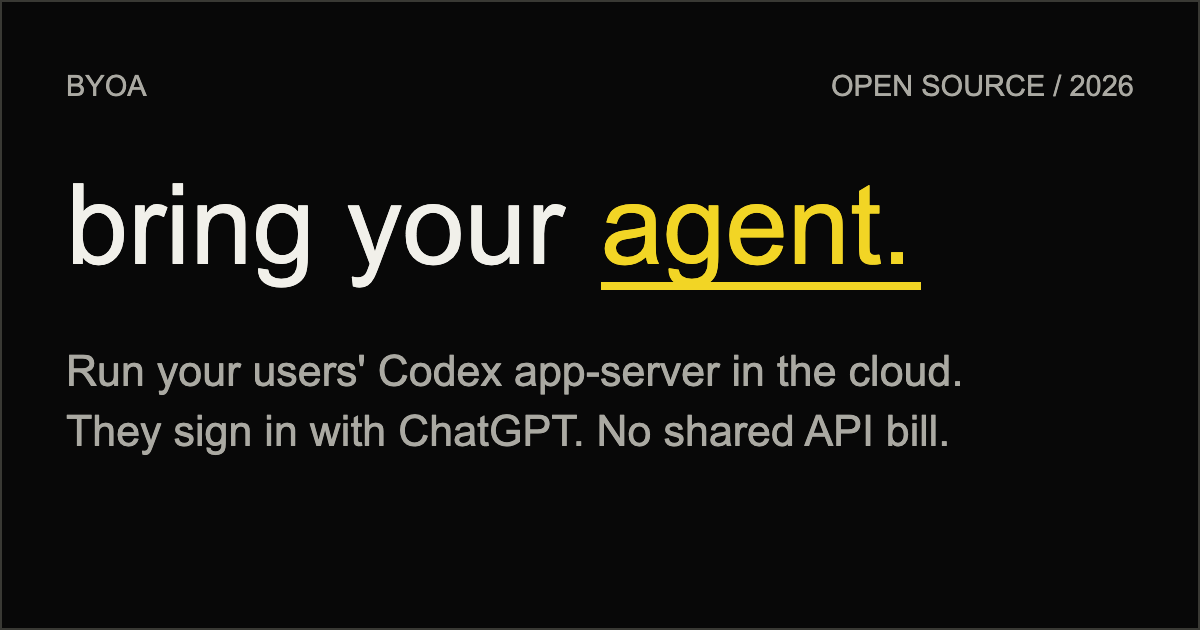
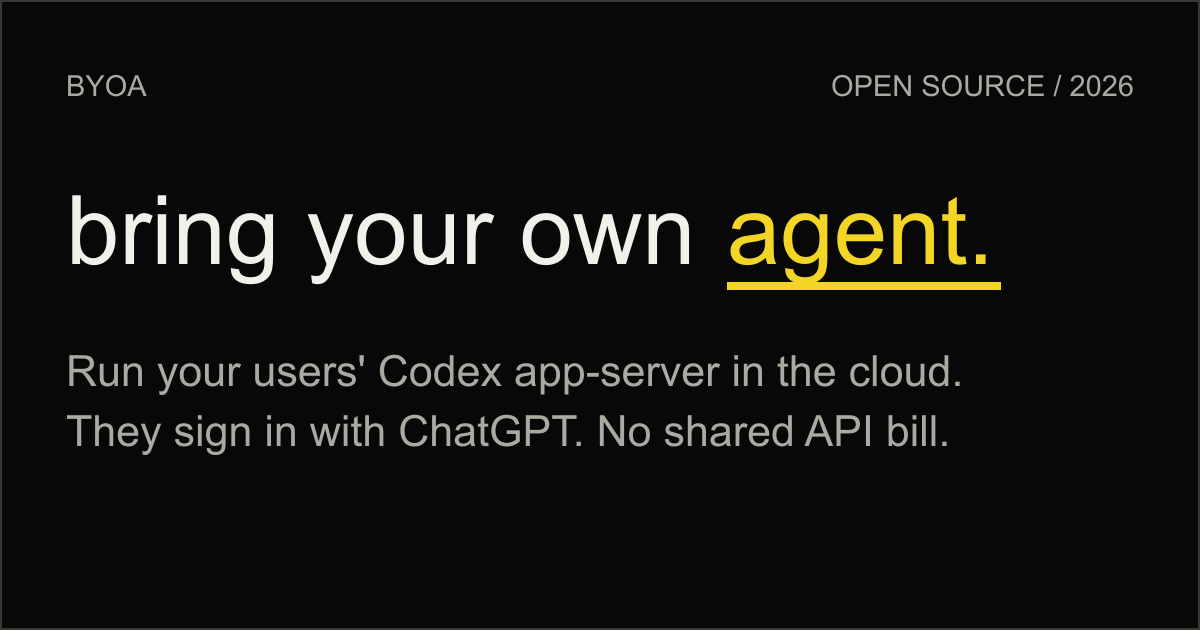
fix: use full byoa tagline

diff --git a/apps/site/index.html b/apps/site/index.html
@@ -4,25 +4,25 @@
     <meta charset="UTF-8" />
     <meta name="viewport" content="width=device-width, initial-scale=1.0" />
     <meta name="theme-color" content="#080808" />
-    <meta name="description" content="Run your users' Codex app-server in the cloud. No shared API bill." />
+    <meta name="description" content="Bring your own agent. Run user-authorized Codex in your Cloudflare account." />
     <link rel="canonical" href="https://byoa.lol" />
     <link rel="icon" type="image/svg+xml" href="/favicon.svg" />
     <link rel="shortcut icon" href="/favicon.svg" />
     <link rel="apple-touch-icon" href="/favicon.svg" />
-    <meta property="og:title" content="BYOA — bring your agent" />
-    <meta property="og:description" content="Run your users' Codex app-server in the cloud. No shared API bill." />
+    <meta property="og:title" content="BYOA — bring your own agent" />
+    <meta property="og:description" content="Run user-authorized Codex in your Cloudflare account." />
     <meta property="og:url" content="https://byoa.lol" />
     <meta property="og:site_name" content="BYOA" />
-    <meta property="og:image" content="https://byoa.lol/social-preview.png?v=20260720" />
+    <meta property="og:image" content="https://byoa.lol/social-preview.png?v=20260721" />
     <meta property="og:image:width" content="1200" />
     <meta property="og:image:height" content="630" />
-    <meta property="og:image:alt" content="BYOA — bring your agent" />
+    <meta property="og:image:alt" content="BYOA — bring your own agent" />
     <meta property="og:type" content="website" />
     <meta name="twitter:card" content="summary_large_image" />
-    <meta name="twitter:title" content="BYOA — bring your agent" />
-    <meta name="twitter:description" content="Run your users' Codex app-server in the cloud. No shared API bill." />
-    <meta name="twitter:image" content="https://byoa.lol/social-preview.png?v=20260720" />
-    <title>BYOA — bring your agent</title>
+    <meta name="twitter:title" content="BYOA — bring your own agent" />
+    <meta name="twitter:description" content="Run user-authorized Codex in your Cloudflare account." />
+    <meta name="twitter:image" content="https://byoa.lol/social-preview.png?v=20260721" />
+    <title>BYOA — bring your own agent</title>
   </head>
   <body>
     <div id="root"></div>

diff --git a/apps/site/src/main.tsx b/apps/site/src/main.tsx
@@ -88,7 +88,7 @@ function Landing() {
       <section className="hero" id="top">
         <p className="status">open source / early alpha</p>
         <div className="logo" aria-label="BYOA">BYOA</div>
-        <h1>bring your <a href="#how">agent</a></h1>
+        <h1>bring your own <a href="#how">agent</a></h1>
         <p className="lead">Run your users&apos; Codex app-server in the cloud. They sign in with ChatGPT. No shared API bill.</p>
         <div className="hero-links"><a href="#setup">set it up</a><span>|</span><a className="demo-link" href={demoUrl}>open the demo ↗</a><span>|</span><a href="https://github.com/rishabhsai/byoa">read the code</a></div>
         <CopyCommand />